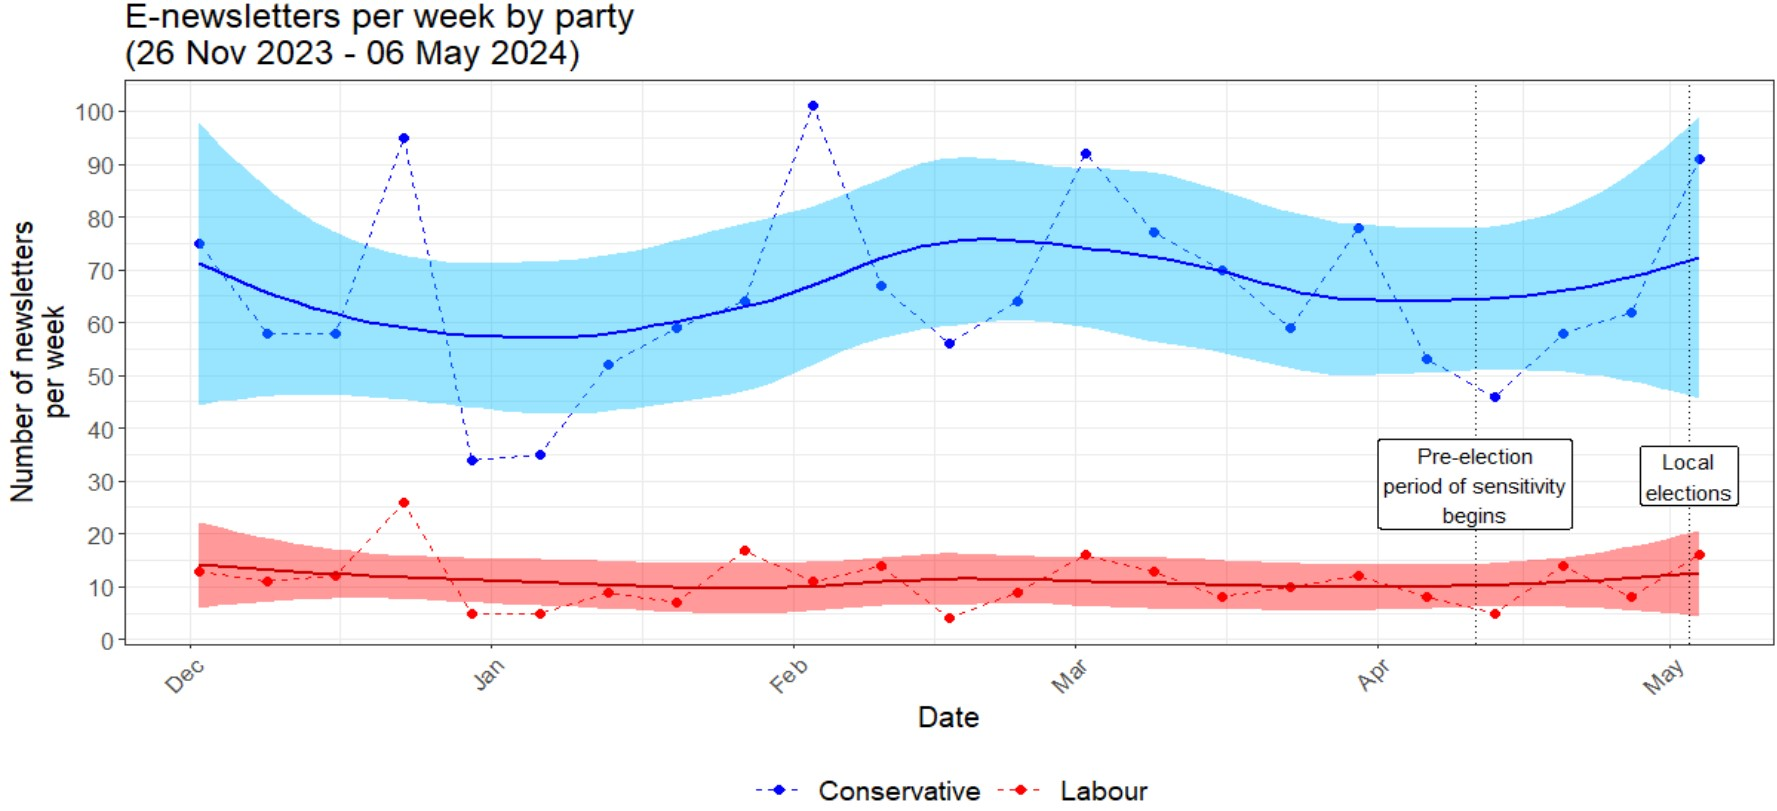
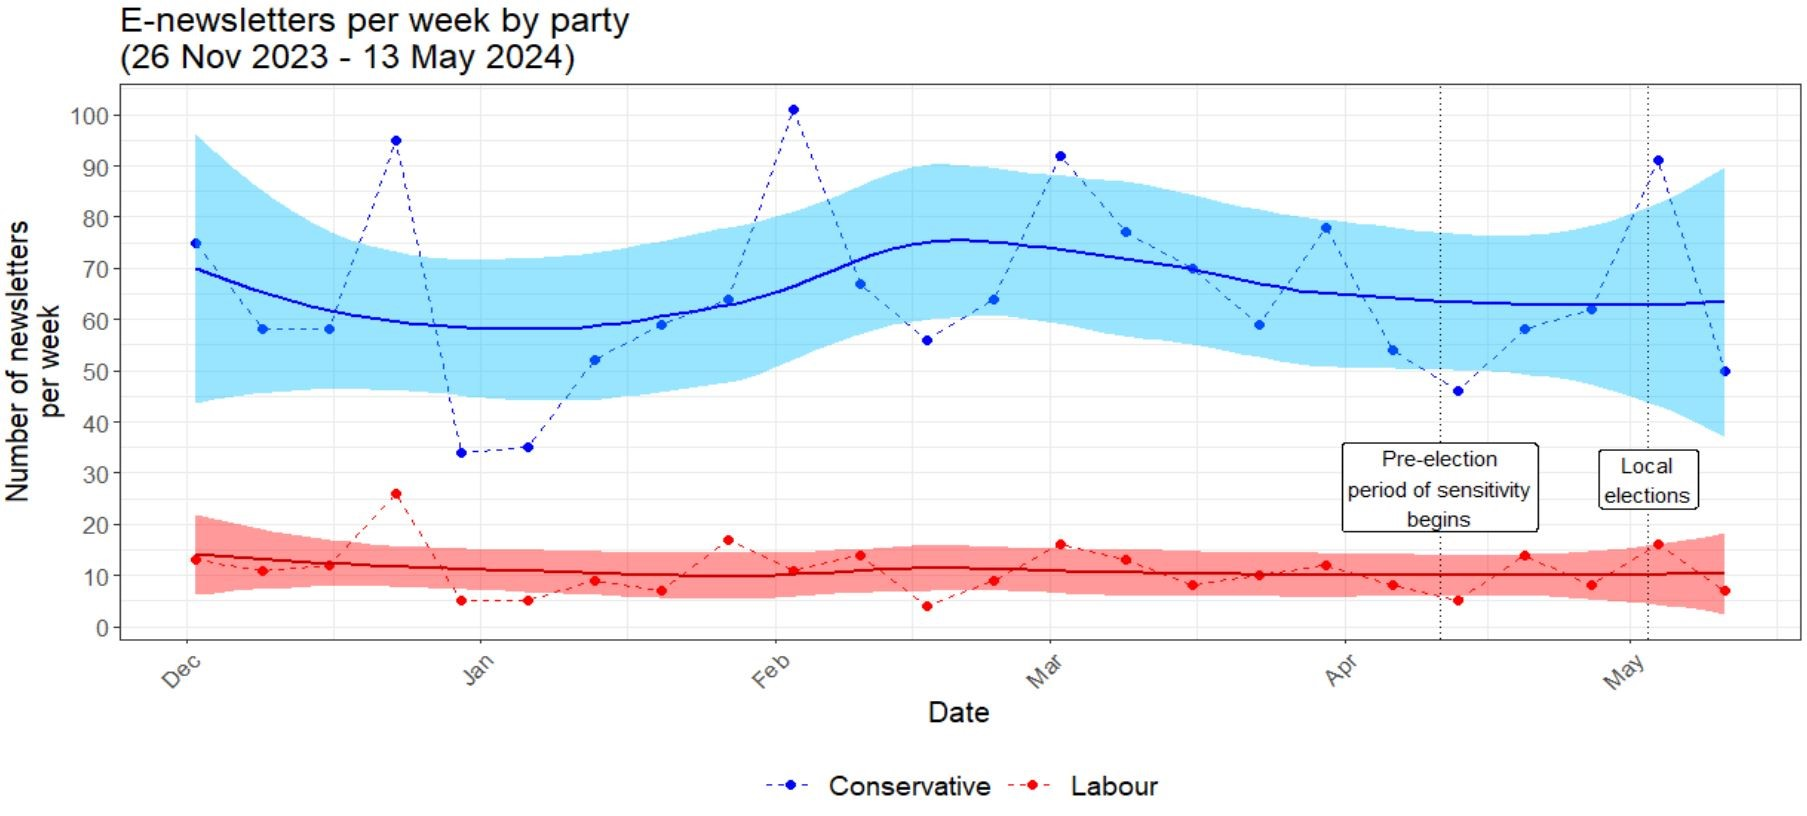
Added one more week to the blog post plots
Added one more week to the blog post plots

diff --git a/docs/blog/index.html b/docs/blog/index.html
@@ -232,7 +232,7 @@ window.Quarto = {
     </div>
 </div>
 <div class="list quarto-listing-default">
-<div class="quarto-post image-right" data-index="0" data-categories="politics,data science,MP Inbox" data-listing-date-sort="1715122800000" data-listing-file-modified-sort="1715239266358" data-listing-date-modified-sort="NaN" data-listing-reading-time-sort="10" data-listing-word-count-sort="1823">
+<div class="quarto-post image-right" data-index="0" data-categories="politics,data science,MP Inbox" data-listing-date-sort="1715122800000" data-listing-file-modified-sort="1715239711514" data-listing-date-modified-sort="NaN" data-listing-reading-time-sort="10" data-listing-word-count-sort="1823">
 <div class="thumbnail">
 <p><a href="../blog/posts/2024-03-18-mp-inbox-sneak-peak/mp_inbox_sneak_peek.html" class="no-external"></a></p><a href="../blog/posts/2024-03-18-mp-inbox-sneak-peak/mp_inbox_sneak_peek.html" class="no-external">
 <p><img src="../blog/posts/2024-03-18-mp-inbox-sneak-peak/blog_1_front_end_screenshot.jpg" class="thumbnail-image"></p>
